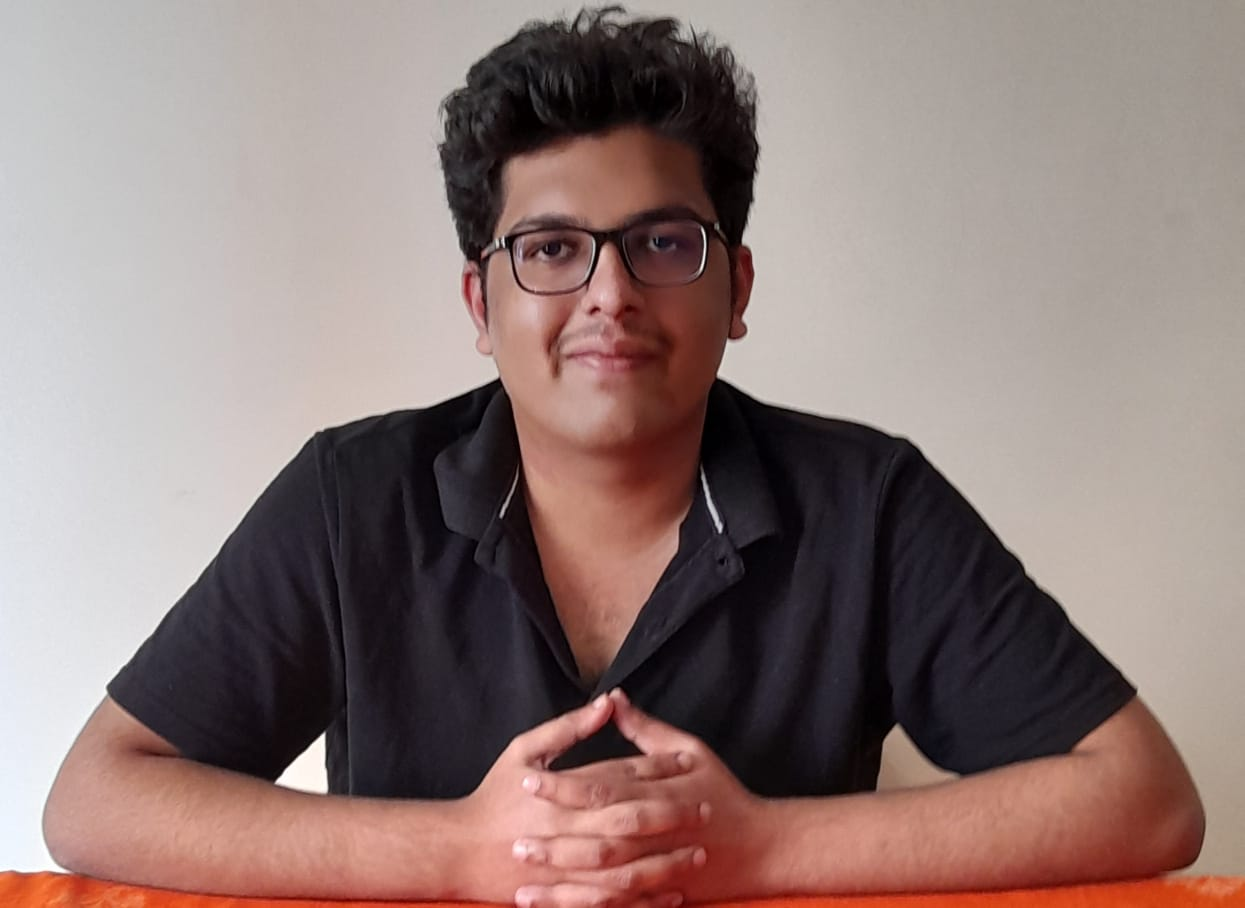
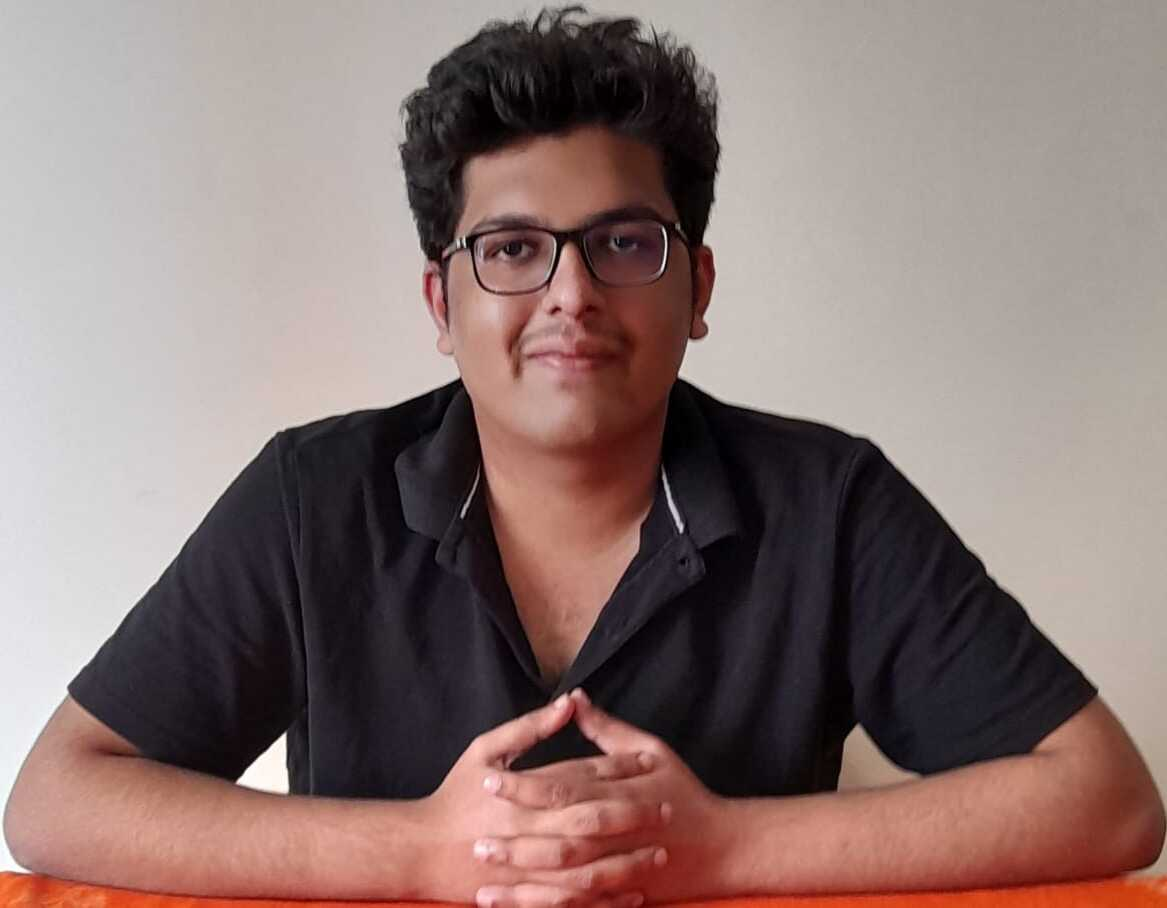
Final Changes

diff --git a/src/components/Tabs/Events/Events.js b/src/components/Tabs/Events/Events.js
@@ -68,6 +68,11 @@ const Event = () => {
 
     const [activeSlide, setActiveSlide] = useState(0)
 
+    function CheckBrowser() {
+        if (navigator.userAgent.indexOf('Firefox') > -1) return 0
+        return 1200
+    }
+
     const changeHandler1 = () => {
         setActiveSlide(0)
     }
@@ -218,31 +223,10 @@ const Event = () => {
                                 <img
                                     src={Slider_Right}
                                     style={{
-                                        width: '100%',
-                                        height: 'auto',
-                                        marginBottom: '15%',
-                                    }}
-                                ></img>
-                            ),
-                            style: {
-                                width: '2vw',
-                                height: '2vw',
-                                // minWidth: 60,
-                                alignSelf: 'center',
-                                border: 'none',
-                                borderRadius: '50%',
-                                justifyContent: 'center',
-                                backgroundColor: 'rgba(255,255,255,1)',
-                            },
-                        }}
-                        backwardBtnProps={{
-                            children: (
-                                <img
-                                    src={Slider_Right}
-                                    style={{
-                                        width: '100%',
-                                        height: 'auto',
-                                        marginBottom: '15%',
+                                        width: 'auto',
+                                        height: '70%',
+                                        marginLeft: '12%',
+                                        marginBottom: '9%',
                                         transform: 'scaleX(-1)',
                                     }}
                                 ></img>
@@ -254,11 +238,34 @@ const Event = () => {
                                 alignSelf: 'center',
                                 border: 'none',
                                 borderRadius: '50%',
-                                backgroundColor: 'rgba(255,255,255,1)',
+                                justifyContent: 'center',
+                                backgroundColor: 'rgba(144, 224, 239,1)',
+                            },
+                        }}
+                        backwardBtnProps={{
+                            children: (
+                                <img
+                                    src={Slider_Right}
+                                    style={{
+                                        width: 'auto',
+                                        height: '70%',
+                                        marginRight: '12%',
+                                        marginBottom: '9%',
+                                    }}
+                                ></img>
+                            ),
+                            style: {
+                                width: '2vw',
+                                height: '2vw',
+                                // minWidth: 60,
+                                alignSelf: 'center',
+                                border: 'none',
+                                borderRadius: '50%',
+                                backgroundColor: 'rgba(144, 224, 239,1)',
                             },
                         }}
                         itemsToShow={2}
-                        speed={1200}
+                        speed={CheckBrowser()}
                         delay={-600}
                         easing={'ease-in-out'}
                     >

diff --git a/src/components/Tabs/Teams/Content_Creative.js b/src/components/Tabs/Teams/Content_Creative.js
@@ -9,6 +9,11 @@ import Backward from './Icons/Back_Arrow.png'
 const Content_and_Creative = () => {
     const [activeSlide, setActiveSlide] = useState(0)
 
+    function CheckBrowser() {
+        if (navigator.userAgent.indexOf('Firefox') > -1) return 0
+        return 500
+    }
+
     return (
         <Route>
             <div className="container_box" id="Teams_Scrollbar">
@@ -70,7 +75,7 @@ const Content_and_Creative = () => {
                             },
                         }}
                         itemsToShow={3}
-                        speed={500}
+                        speed={CheckBrowser()}
                     >
                         <div className="Teams_Tiles">
                             <Members.nisitha_vallamdasu />

diff --git a/src/components/Tabs/Teams/Marketing.js b/src/components/Tabs/Teams/Marketing.js
@@ -9,6 +9,11 @@ import Backward from './Icons/Back_Arrow.png'
 const Marketing_Team = () => {
     const [activeSlide, setActiveSlide] = useState(0)
 
+    function CheckBrowser() {
+        if (navigator.userAgent.indexOf('Firefox') > -1) return 0
+        return 500
+    }
+
     return (
         <Route>
             <div className="container_box" id="Teams_Scrollbar">
@@ -70,7 +75,7 @@ const Marketing_Team = () => {
                             },
                         }}
                         itemsToShow={3}
-                        speed={500}
+                        speed={CheckBrowser()}
                     >
                         <div className="Teams_Tiles">
                             <Members.prajakta_priyadarsini_head />

diff --git a/src/components/Tabs/Teams/Senior_Advisors.js b/src/components/Tabs/Teams/Senior_Advisors.js
@@ -9,6 +9,11 @@ import Backward from './Icons/Back_Arrow.png'
 const Senior_Advisors = () => {
     const [activeSlide, setActiveSlide] = useState(0)
 
+    function CheckBrowser() {
+        if (navigator.userAgent.indexOf('Firefox') > -1) return 0
+        return 500
+    }
+
     return (
         <Route>
             <div className="container_box" id="Teams_Scrollbar">
@@ -70,7 +75,7 @@ const Senior_Advisors = () => {
                             },
                         }}
                         itemsToShow={3}
-                        speed={500}
+                        speed={CheckBrowser()}
                     >
                         <div className="Teams_Tiles">
                             <Members.easwaravaka_dinesh_reddy />

diff --git a/src/components/Tabs/Teams/Public_Relations.js b/src/components/Tabs/Teams/Public_Relations.js
@@ -9,6 +9,11 @@ import Backward from './Icons/Back_Arrow.png'
 const Public_Relations = () => {
     const [activeSlide, setActiveSlide] = useState(0)
 
+    function CheckBrowser() {
+        if (navigator.userAgent.indexOf('Firefox') > -1) return 0
+        return 500
+    }
+
     return (
         <Route>
             <div className="container_box" id="Teams_Scrollbar">
@@ -70,7 +75,7 @@ const Public_Relations = () => {
                             },
                         }}
                         itemsToShow={3}
-                        speed={500}
+                        speed={CheckBrowser()}
                     >
                         <div className="Teams_Tiles">
                             <Members.prince_kumar_gond />

diff --git a/src/components/Tabs/Teams/Designers.js b/src/components/Tabs/Teams/Designers.js
@@ -9,6 +9,11 @@ import Backward from './Icons/Back_Arrow.png'
 const Designers = () => {
     const [activeSlide, setActiveSlide] = useState(0)
 
+    function CheckBrowser() {
+        if (navigator.userAgent.indexOf('Firefox') > -1) return 0
+        return 500
+    }
+
     return (
         <Route>
             <div className="container_box" id="Teams_Scrollbar">
@@ -70,7 +75,7 @@ const Designers = () => {
                             },
                         }}
                         itemsToShow={1}
-                        speed={500}
+                        speed={CheckBrowser()}
                     >
                         <div className="Teams_Tiles">
                             <Members.siddharth_anand_srivastav_head />

diff --git a/src/components/Tabs/Teams/External_Affairs.js b/src/components/Tabs/Teams/External_Affairs.js
@@ -9,6 +9,11 @@ import Backward from './Icons/Back_Arrow.png'
 const External_Affairs = () => {
     const [activeSlide, setActiveSlide] = useState(0)
 
+    function CheckBrowser() {
+        if (navigator.userAgent.indexOf('Firefox') > -1) return 0
+        return 500
+    }
+
     return (
         <Route>
             <div className="container_box" id="Teams_Scrollbar">
@@ -70,7 +75,7 @@ const External_Affairs = () => {
                             },
                         }}
                         itemsToShow={3}
-                        speed={500}
+                        speed={CheckBrowser()}
                     >
                         <div className="Teams_Tiles">
                             <Members.aman_kumar />

diff --git a/src/components/Tabs/Teams/Core_Team.js b/src/components/Tabs/Teams/Core_Team.js
@@ -9,6 +9,11 @@ import Backward from './Icons/Back_Arrow.png'
 const Core_Team = () => {
     const [activeSlide, setActiveSlide] = useState(0)
 
+    function CheckBrowser() {
+        if (navigator.userAgent.indexOf('Firefox') > -1) return 0
+        return 500
+    }
+
     return (
         <Route>
             <div className="container_box" id="Teams_Scrollbar">
@@ -70,7 +75,7 @@ const Core_Team = () => {
                             },
                         }}
                         itemsToShow={3}
-                        speed={500}
+                        speed={CheckBrowser()}
                     >
                         <div className="Teams_Tiles">
                             <Members.ritweek_singh />

diff --git a/src/components/Tabs/Teams/Developers.js b/src/components/Tabs/Teams/Developers.js
@@ -9,6 +9,11 @@ import Backward from './Icons/Back_Arrow.png'
 const Developers = () => {
     const [activeSlide, setActiveSlide] = useState(0)
 
+    function CheckBrowser() {
+        if (navigator.userAgent.indexOf('Firefox') > -1) return 0
+        return 500
+    }
+
     return (
         <Route>
             <div className="container_box" id="Teams_Scrollbar">
@@ -70,7 +75,7 @@ const Developers = () => {
                             },
                         }}
                         itemsToShow={3}
-                        speed={500}
+                        speed={CheckBrowser()}
                     >
                         <div className="Teams_Tiles">
                             <Members.yash_jain />

diff --git a/src/components/Tabs/Teams/Members_Description_Tiles.js b/src/components/Tabs/Teams/Members_Description_Tiles.js
@@ -23,7 +23,7 @@ import Mayank_Singh from './Mem_Images/Mayank_Singh.jpeg'
 import Ritweek_Singh from './Mem_Images/Ritweek_Singh.jpg'
 import Akshat_Jain from './Mem_Images/Akshat_Jain.jpg'
 import Pranav_Mittal from './Mem_Images/Pranav_Mittal.jpg'
-import Jayesh_Upadhyay from './Mem_Images/Jayesh_Upadhyay.jpeg'
+import Jayesh_Upadhyay from './Mem_Images/Jayesh_Upadhyay.jpg'
 import Vikhyath_Venkatraman from './Mem_Images/Vikhyath_Venkatraman.jpg'
 import Eshaan_Gupta from './Mem_Images/Eshaan_Gupta.jpeg'
 import Smriti_Sharma from './Mem_Images/Smriti_Sharma.jpg'
